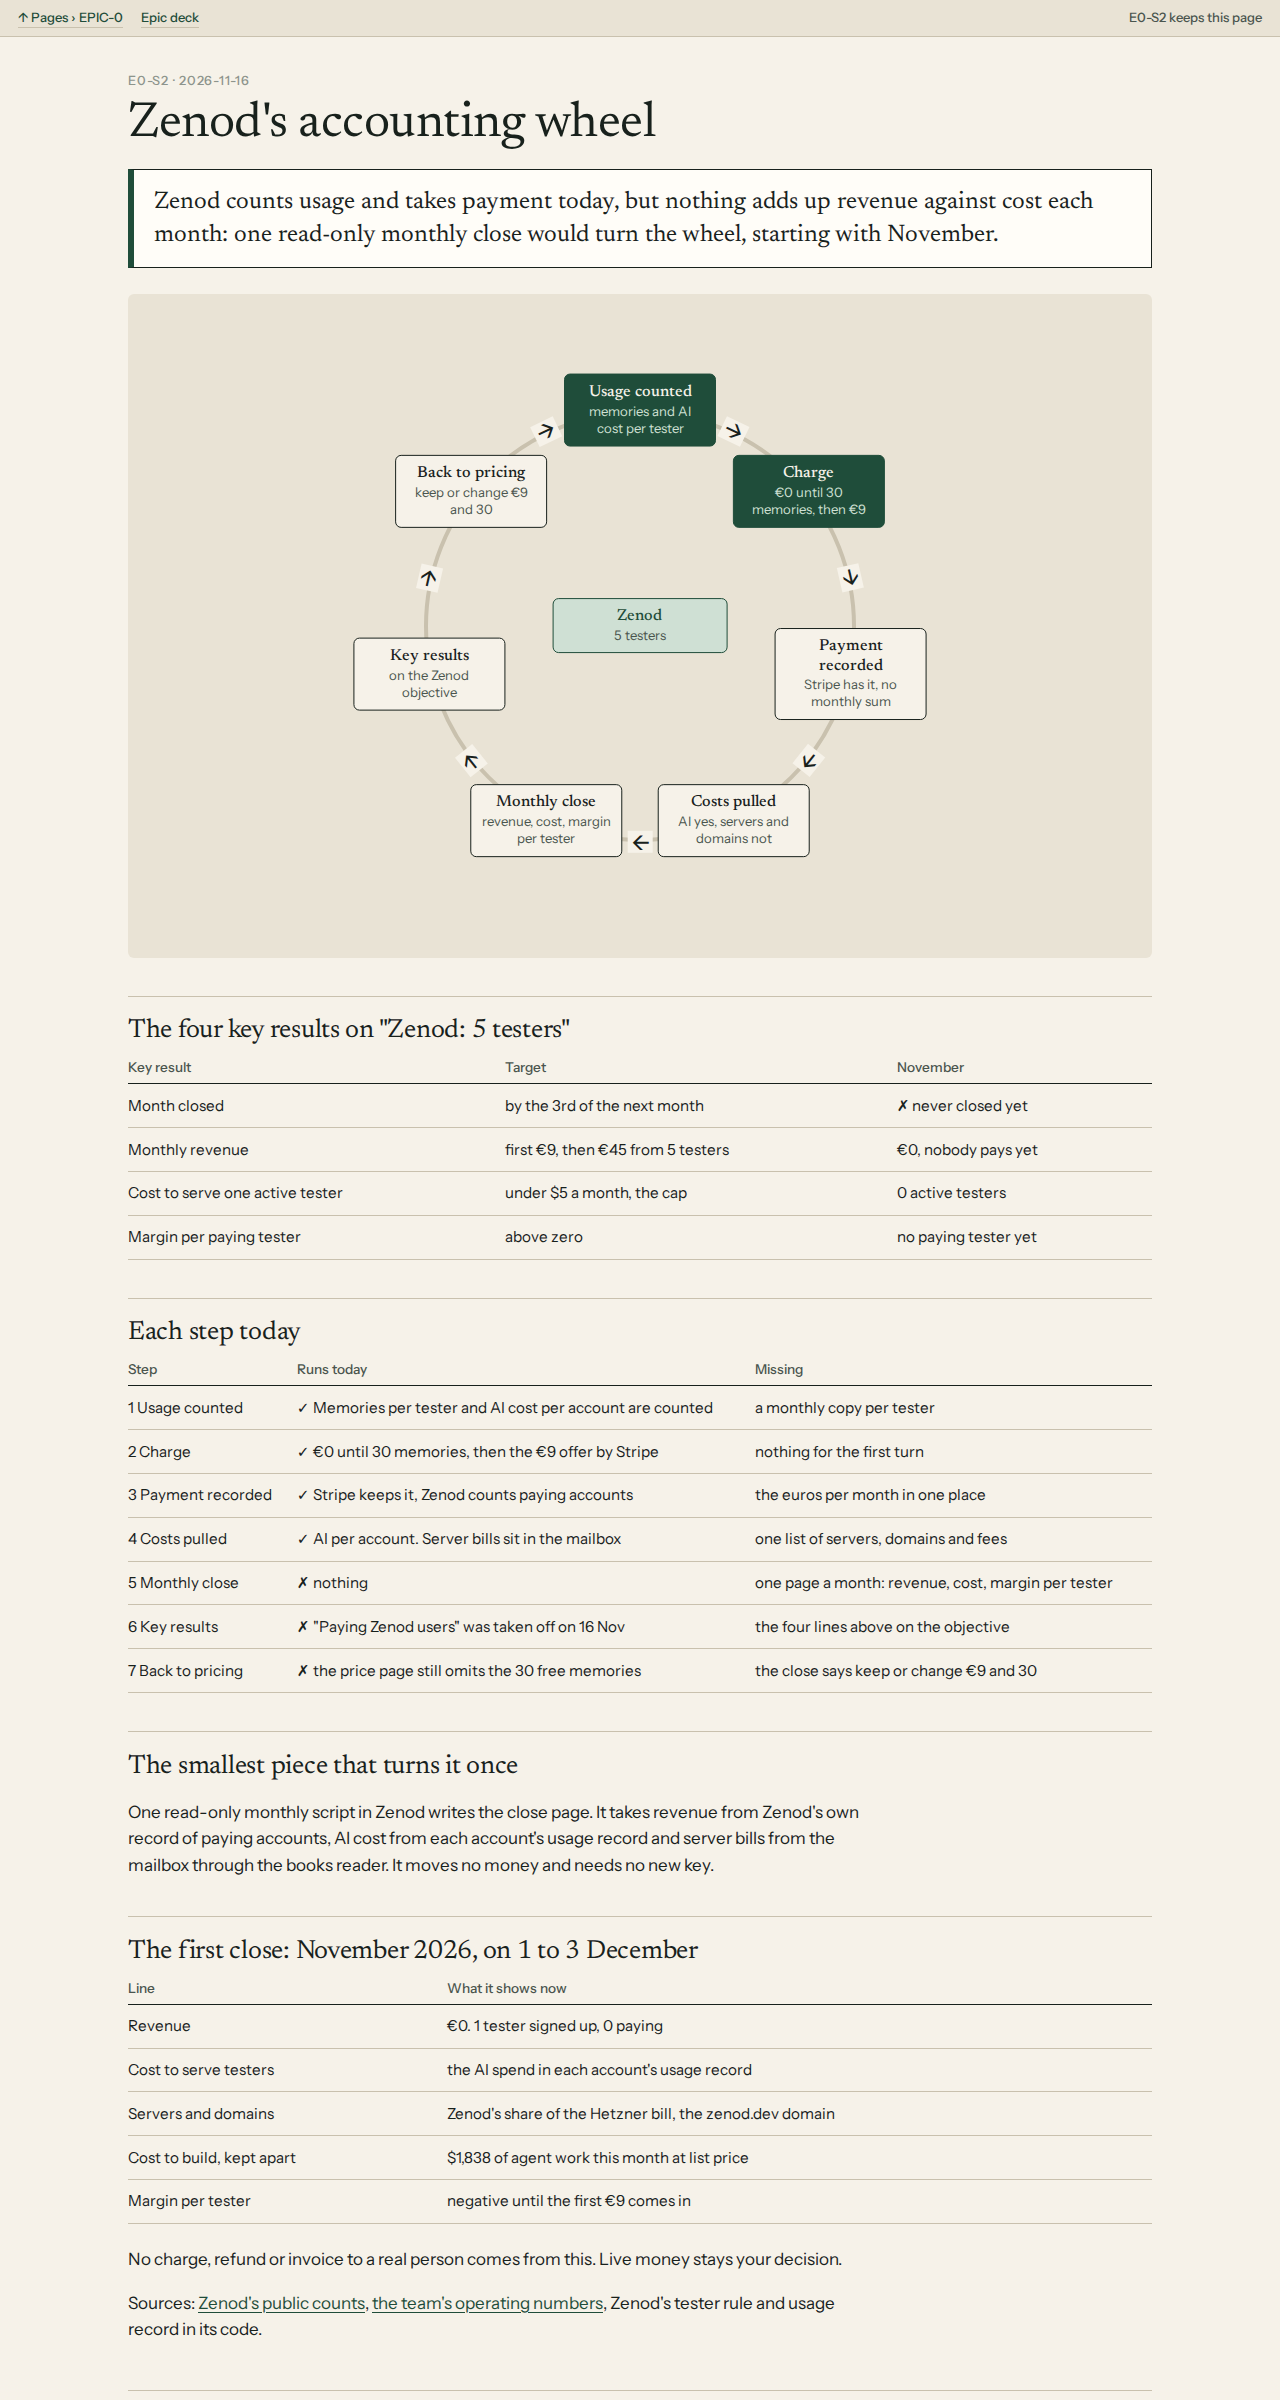
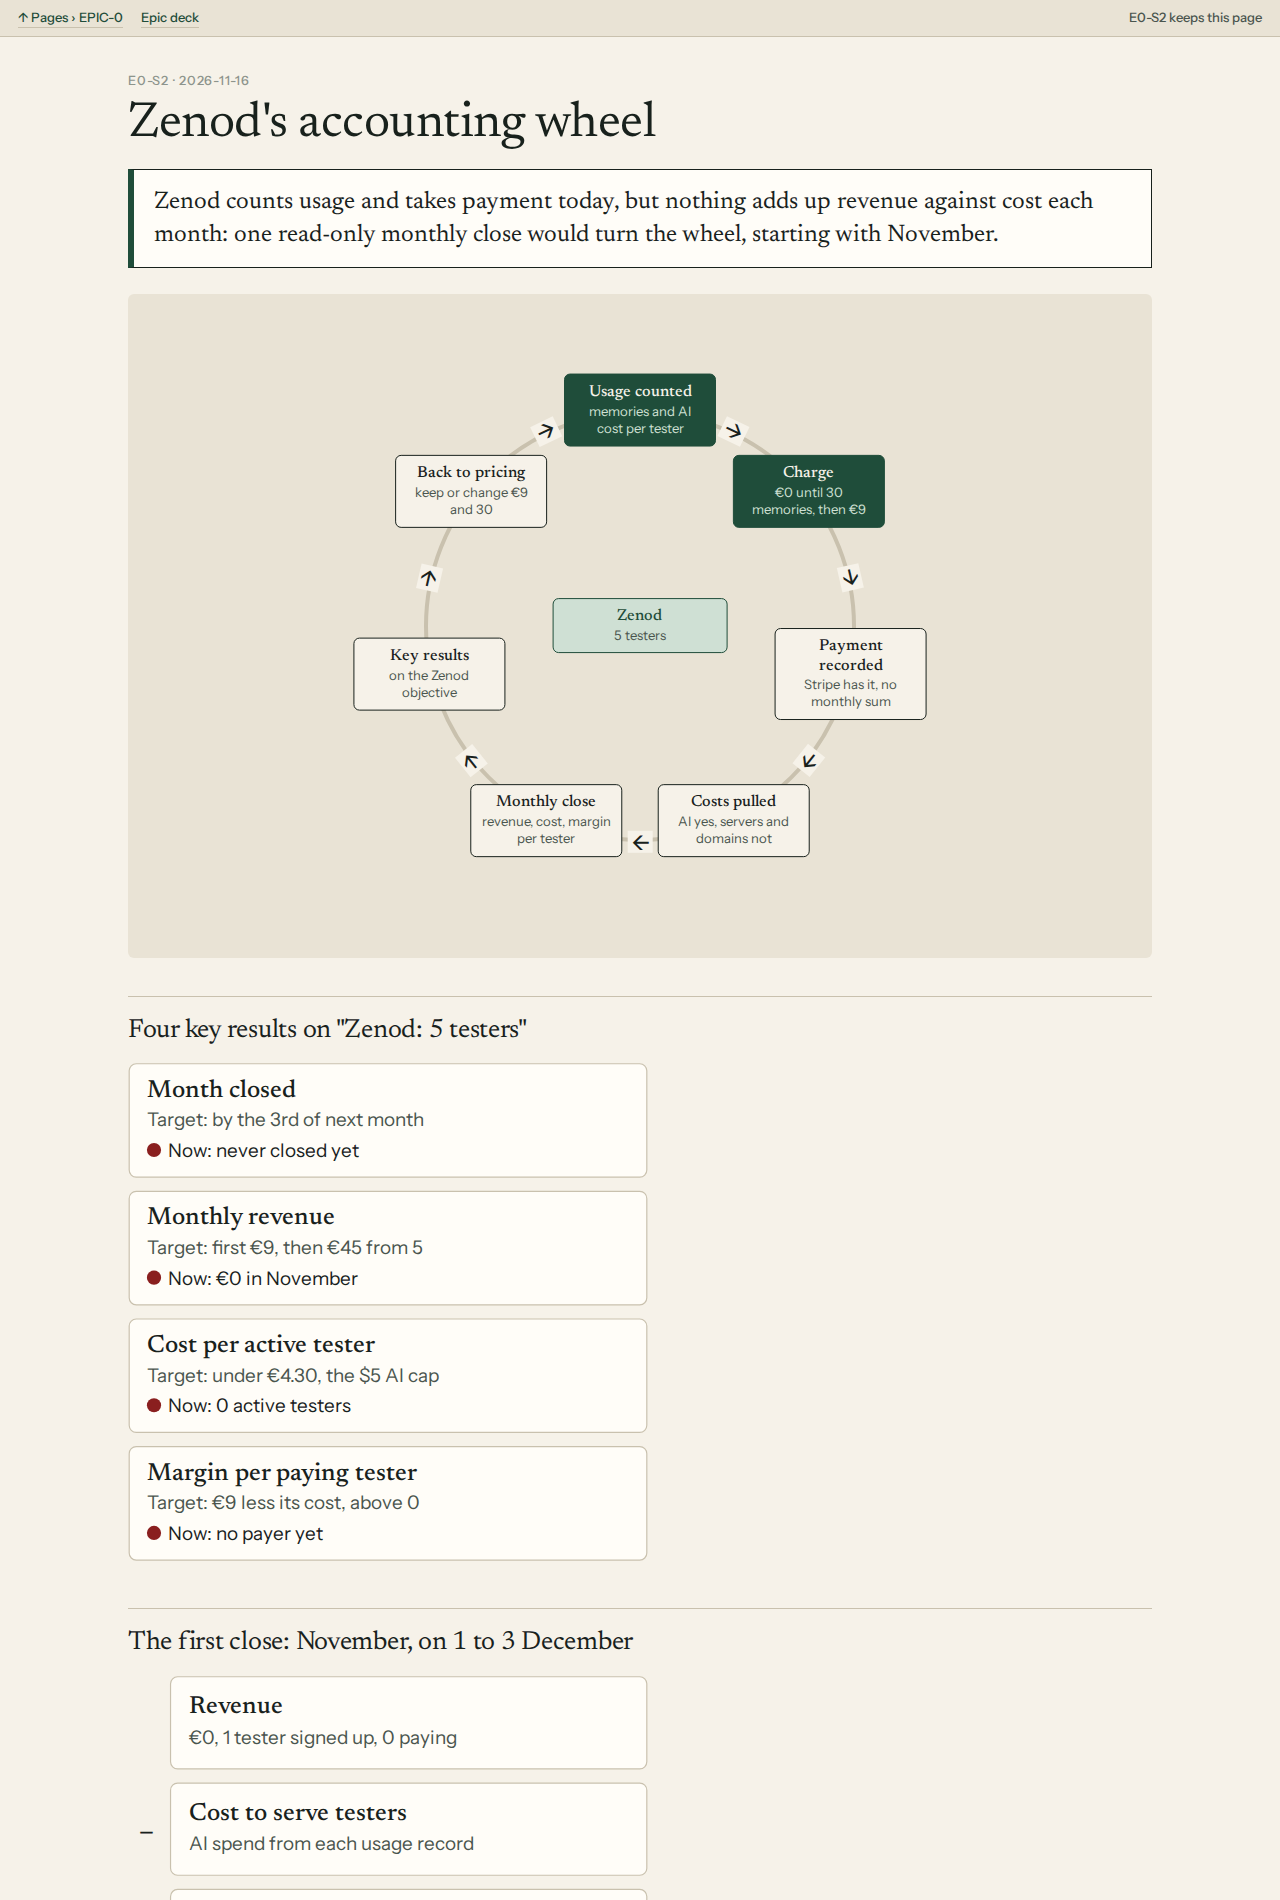
E0-S2: page rebuilt as diagrams first (card_qc plan check), detail folded
Run: run_4e6576e2-072e-468e-99ad-f83164ea4c32

diff --git a/docs/pages/e0-s2-accounting-wheel/index.html b/docs/pages/e0-s2-accounting-wheel/index.html
@@ -6,18 +6,49 @@
 <p class="ps-punch">Zenod counts usage and takes payment today, but nothing adds up revenue against cost each month: one read-only monthly close would turn the wheel, starting with November.</p>
 <figure class="ps-diagram"><ol class="wheel" style="--n:7" data-shape="cycle" aria-label="a cycle of 7 steps, the last back to the first"><li class="on" style="--i:0"><b>Usage counted</b>memories and AI cost per tester</li><li class="rim" style="--i:0.5" aria-hidden="true">→</li><li class="on" style="--i:1"><b>Charge</b>€0 until 30 memories, then €9</li><li class="rim" style="--i:1.5" aria-hidden="true">→</li><li style="--i:2"><b>Payment recorded</b>Stripe has it, no monthly sum</li><li class="rim" style="--i:2.5" aria-hidden="true">→</li><li class="bad" style="--i:3"><b>Costs pulled</b>AI yes, servers and domains not</li><li class="rim" style="--i:3.5" aria-hidden="true">→</li><li class="bad" style="--i:4"><b>Monthly close</b>revenue, cost, margin per tester</li><li class="rim" style="--i:4.5" aria-hidden="true">→</li><li class="bad" style="--i:5"><b>Key results</b>on the Zenod objective</li><li class="rim" style="--i:5.5" aria-hidden="true">→</li><li class="bad" style="--i:6"><b>Back to pricing</b>keep or change €9 and 30</li><li class="rim" style="--i:6.5" aria-hidden="true">→</li><li class="hub"><b>Zenod</b>5 testers</li></ol></figure>
 <div class="ps-body">
-<h2>The four key results on "Zenod: 5 testers"</h2>
-<table>
-<thead><tr><th>Key result</th><th>Target</th><th>November</th></tr></thead>
-<tbody>
-<tr><td>Month closed</td><td>by the 3rd of the next month</td><td>✗ never closed yet</td></tr>
-<tr><td>Monthly revenue</td><td>first €9, then €45 from 5 testers</td><td>€0, nobody pays yet</td></tr>
-<tr><td>Cost to serve one active tester</td><td>under €4.30 a month, the $5 AI cap in euros</td><td>0 active testers</td></tr>
-<tr><td>Margin per paying tester</td><td>€9 less its cost, above zero</td><td>no paying tester yet</td></tr>
-</tbody>
-</table>
-
-<h2>Each step today</h2>
+<h2>Four key results on "Zenod: 5 testers"</h2>
+<figure style="margin:0"><svg viewBox="0 0 440 432" style="display:block;width:100%;max-width:520px;height:auto" role="img" aria-label="Four key results">
+<rect x="1" y="4" width="438" height="96" rx="6" fill="#fffdf8" stroke="#c9c1ae"/>
+<text x="16" y="32" font-size="21" fill="#18211c" font-family="Newsreader, Georgia, serif" font-weight="500" text-anchor="start">Month closed</text>
+<text x="16" y="57" font-size="16" fill="#4a554e" font-family="Instrument Sans, system-ui, sans-serif" font-weight="400" text-anchor="start">Target: by the 3rd of next month</text>
+<circle cx="22" cy="77" r="6" fill="#8a1f1f"/>
+<text x="34" y="83" font-size="16" fill="#18211c" font-family="Instrument Sans, system-ui, sans-serif" font-weight="400" text-anchor="start">Now: never closed yet</text>
+<rect x="1" y="112" width="438" height="96" rx="6" fill="#fffdf8" stroke="#c9c1ae"/>
+<text x="16" y="140" font-size="21" fill="#18211c" font-family="Newsreader, Georgia, serif" font-weight="500" text-anchor="start">Monthly revenue</text>
+<text x="16" y="165" font-size="16" fill="#4a554e" font-family="Instrument Sans, system-ui, sans-serif" font-weight="400" text-anchor="start">Target: first €9, then €45 from 5</text>
+<circle cx="22" cy="185" r="6" fill="#8a1f1f"/>
+<text x="34" y="191" font-size="16" fill="#18211c" font-family="Instrument Sans, system-ui, sans-serif" font-weight="400" text-anchor="start">Now: €0 in November</text>
+<rect x="1" y="220" width="438" height="96" rx="6" fill="#fffdf8" stroke="#c9c1ae"/>
+<text x="16" y="248" font-size="21" fill="#18211c" font-family="Newsreader, Georgia, serif" font-weight="500" text-anchor="start">Cost per active tester</text>
+<text x="16" y="273" font-size="16" fill="#4a554e" font-family="Instrument Sans, system-ui, sans-serif" font-weight="400" text-anchor="start">Target: under €4.30, the $5 AI cap</text>
+<circle cx="22" cy="293" r="6" fill="#8a1f1f"/>
+<text x="34" y="299" font-size="16" fill="#18211c" font-family="Instrument Sans, system-ui, sans-serif" font-weight="400" text-anchor="start">Now: 0 active testers</text>
+<rect x="1" y="328" width="438" height="96" rx="6" fill="#fffdf8" stroke="#c9c1ae"/>
+<text x="16" y="356" font-size="21" fill="#18211c" font-family="Newsreader, Georgia, serif" font-weight="500" text-anchor="start">Margin per paying tester</text>
+<text x="16" y="381" font-size="16" fill="#4a554e" font-family="Instrument Sans, system-ui, sans-serif" font-weight="400" text-anchor="start">Target: €9 less its cost, above 0</text>
+<circle cx="22" cy="401" r="6" fill="#8a1f1f"/>
+<text x="34" y="407" font-size="16" fill="#18211c" font-family="Instrument Sans, system-ui, sans-serif" font-weight="400" text-anchor="start">Now: no payer yet</text>
+</svg></figure>
+<h2>The first close: November, on 1 to 3 December</h2>
+<figure style="margin:0"><svg viewBox="0 0 440 360" style="display:block;width:100%;max-width:520px;height:auto" role="img" aria-label="The November close">
+<rect x="36" y="4" width="403" height="78" rx="6" fill="#fffdf8" stroke="#c9c1ae"/>
+<text x="52" y="35" font-size="21" fill="#18211c" font-family="Newsreader, Georgia, serif" font-weight="500" text-anchor="start">Revenue</text>
+<text x="52" y="61" font-size="16" fill="#4a554e" font-family="Instrument Sans, system-ui, sans-serif" font-weight="400" text-anchor="start">€0, 1 tester signed up, 0 paying</text>
+<rect x="36" y="94" width="403" height="78" rx="6" fill="#fffdf8" stroke="#c9c1ae"/>
+<text x="16" y="142" font-size="28" fill="#18211c" font-family="Newsreader, Georgia, serif" font-weight="500" text-anchor="middle">−</text>
+<text x="52" y="125" font-size="21" fill="#18211c" font-family="Newsreader, Georgia, serif" font-weight="500" text-anchor="start">Cost to serve testers</text>
+<text x="52" y="151" font-size="16" fill="#4a554e" font-family="Instrument Sans, system-ui, sans-serif" font-weight="400" text-anchor="start">AI spend from each usage record</text>
+<rect x="36" y="184" width="403" height="78" rx="6" fill="#fffdf8" stroke="#c9c1ae"/>
+<text x="16" y="232" font-size="28" fill="#18211c" font-family="Newsreader, Georgia, serif" font-weight="500" text-anchor="middle">−</text>
+<text x="52" y="215" font-size="21" fill="#18211c" font-family="Newsreader, Georgia, serif" font-weight="500" text-anchor="start">Servers and domains</text>
+<text x="52" y="241" font-size="16" fill="#4a554e" font-family="Instrument Sans, system-ui, sans-serif" font-weight="400" text-anchor="start">Hetzner share and zenod.dev</text>
+<rect x="36" y="274" width="403" height="78" rx="6" fill="#1f4d3a" stroke="#1f4d3a"/>
+<text x="16" y="322" font-size="28" fill="#18211c" font-family="Newsreader, Georgia, serif" font-weight="500" text-anchor="middle">=</text>
+<text x="52" y="305" font-size="21" fill="#f6f2e9" font-family="Newsreader, Georgia, serif" font-weight="500" text-anchor="start">Margin per tester</text>
+<text x="52" y="331" font-size="16" fill="#cfe0d4" font-family="Instrument Sans, system-ui, sans-serif" font-weight="400" text-anchor="start">negative until the first €9</text>
+</svg></figure>
+<p>Your yes means one page a month, made by a read-only script.</p>
+<details><summary>Each step today, what runs and what is missing</summary>
 <table>
 <thead><tr><th>Step</th><th>Runs today</th><th>Missing</th></tr></thead>
 <tbody>
@@ -26,27 +57,15 @@
 <tr><td>3 Payment recorded</td><td>✓ Stripe keeps it, Zenod counts paying accounts</td><td>the euros per month in one place</td></tr>
 <tr><td>4 Costs pulled</td><td>✓ AI per account. Server bills sit in the mailbox</td><td>one list of servers, domains and fees</td></tr>
 <tr><td>5 Monthly close</td><td>✗ nothing</td><td>one page a month: revenue, cost, margin per tester</td></tr>
-<tr><td>6 Key results</td><td>✗ "Paying Zenod users" was taken off on 16 Nov</td><td>the four lines above on the objective</td></tr>
+<tr><td>6 Key results</td><td>✗ "Paying Zenod users" was taken off on 16 Nov</td><td>the four key results on the objective</td></tr>
 <tr><td>7 Back to pricing</td><td>✗ the price page still omits the 30 free memories</td><td>the close says keep or change €9 and 30</td></tr>
 </tbody>
 </table>
-
-<h2>The smallest piece that turns it once</h2>
-<p>Your yes means one page a month: revenue, cost and margin per tester. A read-only monthly script in Zenod writes it. It takes revenue from Zenod's own record of paying accounts, AI cost from each account's usage record and server bills from the mailbox through the books reader. It moves no money and needs no new key.</p>
-
-<h2>The first close: November 2026, on 1 to 3 December</h2>
-<table>
-<thead><tr><th>Line</th><th>What it shows now</th></tr></thead>
-<tbody>
-<tr><td>Revenue</td><td>€0. 1 tester signed up, 0 paying</td></tr>
-<tr><td>Cost to serve testers</td><td>the AI spend in each account's usage record</td></tr>
-<tr><td>Servers and domains</td><td>Zenod's share of the Hetzner bill, the zenod.dev domain</td></tr>
-<tr><td>Cost to build, kept apart</td><td>about €1,590 of agent work this month at list price, not in the margin</td></tr>
-<tr><td>Margin per tester</td><td>negative until the first €9 comes in</td></tr>
-</tbody>
-</table>
-<p>No charge, refund or invoice to a real person comes from this. Live money stays your decision.</p>
-<p class="ps-src">Sources: <a href="https://cloud.zenod.dev/api/public/counts">Zenod's public counts</a>, <a href="http://vps3.taild81fbb.ts.net:9471/operating.json">the team's operating numbers</a>, Zenod's tester rule and usage record in its code.</p>
+<p>The script takes revenue from Zenod's own record of paying accounts, AI cost from each account's usage record and server bills from the mailbox through the books reader.</p>
+<p>It moves no money and needs no new key. No charge, refund or invoice to a real person comes from it.</p>
+<p>Cost to build is kept apart: about €1,590 of agent work this month at list price.</p>
+<p>Sources: <a href="https://cloud.zenod.dev/api/public/counts">Zenod's public counts</a>, <a href="http://vps3.taild81fbb.ts.net:9471/operating.json">the team's operating numbers</a>, Zenod's tester rule and usage record in its code.</p>
+</details>
 
 </div>
 <p class="ps-foot">E0-S2 keeps this page · one shared page shell (E75-S5)</p>

diff --git a/docs/evidence/e0-s2-2026-11-16.md b/docs/evidence/e0-s2-2026-11-16.md
@@ -16,6 +16,7 @@ Page: http://vps3.taild81fbb.ts.net:9359/ (source `docs/pages/e0-s2-accounting-w
 - `text_wall_check.py`: leads with a picture or box. `clean_look_check.py`: clean.
 - Screenshots at 390 and 1280 px read: wheel legible at both, tables fit.
 - Links pressed: counts 200, operating.json 200, deck and pages bar 302 to console sign-in.
+- card_qc round 1 held it as a plan page (473 words, sections without a drawn diagram): rebuilt with two drawn diagrams (key results, November close) and the step table folded into a closed details; plan check now clean, re-shot at 390 and 1280.
 - Fresh reader (L-10) round 1: (a) right; (b) euros and dollars mixed in key results, evidence link missing. Fixed (cap shown as €4.30, margin as "€9 less its cost", this file written). Round 2: (a) right; (b) dollars for build cost, and what yes means. Fixed (build cost in euros, kept out of the margin; "Your yes means one page a month" added). Round 3: (a) right; (b) "nothing blocks the yes or no"; it noted wheel, key results and close as words of the ask itself, kept on purpose (his word "wheel").
 
 No Stripe call was made; nothing was charged, refunded or invoiced.
